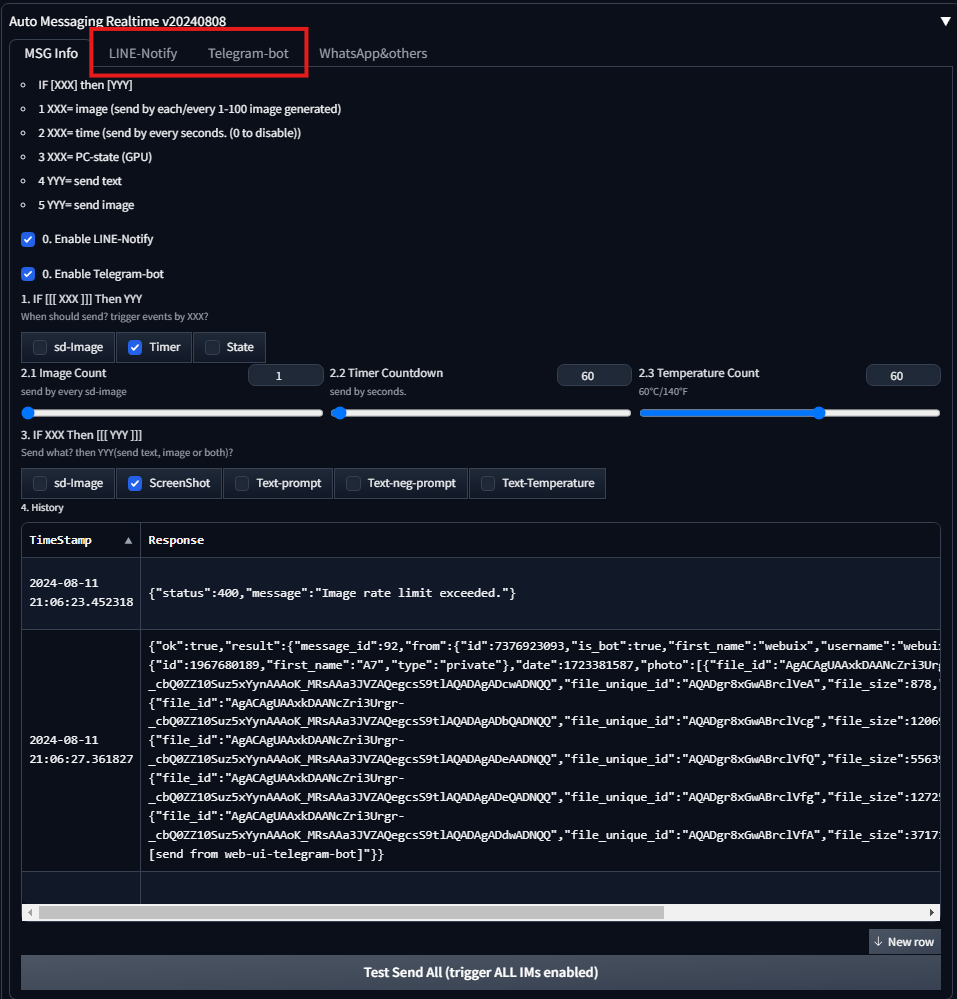
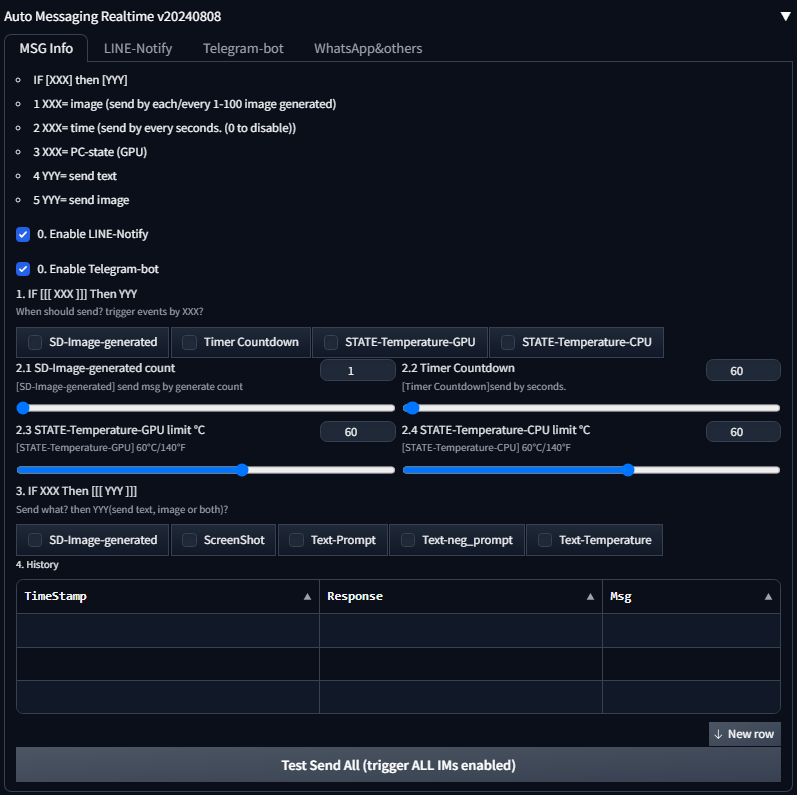
[update] using enum as list for checkbox

Changed region(s): [[0.0, 0.0, 1.0, 1.0], [0.9636, 0.0, 0.9937, 0.0302]]

diff --git a/scripts/auto_messaging_realtime.py b/scripts/auto_messaging_realtime.py
@@ -1,4 +1,6 @@
+import enum
 import os
+
 from threading import Timer
 import json
 import pyautogui
@@ -21,6 +23,41 @@ class RepeatingTimer(Timer):
             self.finished.wait(self.interval)
 
 
+class EnumSendContent(enum.Enum):
+    SDIMAGE = 'SD-Image-generated'
+    ScreenShot = 'ScreenShot'
+    TextPrompt = 'Text-Prompt'
+    Text_neg_prompt = 'Text-neg_prompt'
+    Text_Temperature = 'Text-Temperature'
+
+    @classmethod
+    def values(cls):
+        return [e.value for e in cls]
+
+
+class EnumTriggetType(enum.Enum):
+    SDIMAGE = 'SD-Image-generated'
+    TIMER = 'Timer Countdown'
+    STATE_TEMPERATURE_GPU = 'STATE-Temperature-GPU'
+    STATE_TEMPERATURE_CPU = 'STATE-Temperature-CPU'
+
+    @classmethod
+    def to_dict(cls):
+        return {e.name: e.value for e in cls}
+
+    @classmethod
+    def items(cls):
+        return [(e.name, e.value) for e in cls]
+
+    @classmethod
+    def keys(cls):
+        return [e.name for e in cls]
+
+    @classmethod
+    def values(cls):
+        return [e.value for e in cls]
+
+
 class AutoMessaging(scripts.Script):
     def __init__(self) -> None:
         super().__init__()
@@ -37,14 +74,30 @@ class AutoMessaging(scripts.Script):
 
     # bot_line_notify_trigger_by_temperature_label = "60°C/140°F"
 
-    def send_msg_all(self, setting__im_line_notify_enabled, setting__im_telegram_enabled,
-                     setting_trigger_type, setting_image_count, setting_time_count, setting_temperature,
-                     setting_send_content_with,
-                     im_line_notify_token, im_line_notify_msg_header,
-                     im_telegram_token_botid, im_telegram_token_chatid, im_telegram_msg_header):
+    def send_msg_all_from_processing(self, p, setting__im_line_notify_enabled, setting__im_telegram_enabled,
+                                     setting_trigger_type, setting_image_count, setting_time_count,
+                                     setting_temperature,
+                                     setting_send_content_with,
+                                     im_line_notify_token, im_line_notify_msg_header,
+                                     im_telegram_token_botid, im_telegram_token_chatid, im_telegram_msg_header):
+
+        im_line_notify_msg_header += ''.join(str(x) for x in p.all_prompts)
+        im_telegram_msg_header += ''.join(str(x) for x in p.all_prompts)
+
+        self.send_msg_all_lets_go(setting__im_line_notify_enabled, setting__im_telegram_enabled,
+                                  setting_trigger_type, setting_image_count, setting_time_count, setting_temperature,
+                                  setting_send_content_with,
+                                  im_line_notify_token, im_line_notify_msg_header,
+                                  im_telegram_token_botid, im_telegram_token_chatid, im_telegram_msg_header)
+
+    def send_msg_all_lets_go(self, setting__im_line_notify_enabled, setting__im_telegram_enabled,
+                             setting_trigger_type, setting_image_count, setting_time_count, setting_temperature,
+                             setting_send_content_with,
+                             im_line_notify_token, im_line_notify_msg_header,
+                             im_telegram_token_botid, im_telegram_token_chatid, im_telegram_msg_header):
         opened_files = []
 
-        if "ScreenShot" in setting_send_content_with:
+        if EnumSendContent.ScreenShot.value in setting_send_content_with:
             myscreenshot = pyautogui.screenshot()
             base_folder = os.path.dirname(__file__)
             image_path = os.path.join(base_folder, "..", "myScreenshot.png")
@@ -64,8 +117,8 @@ class AutoMessaging(scripts.Script):
                                                          im_telegram_token_chatid,
                                                          im_telegram_msg_header)
             log.warning(f"[][send_msg_all][result_telegram_bot]: {result_telegram_bot}")
-        if "Timer" in setting_trigger_type:
-            self.timer_couunt_threading = Timer(setting_time_count, self.send_msg_all,
+        if EnumTriggetType.TIMER.value in setting_trigger_type:
+            self.timer_couunt_threading = Timer(setting_time_count, self.send_msg_all_lets_go,
                                                 [setting__im_line_notify_enabled, setting__im_telegram_enabled,
                                                  setting_trigger_type, setting_image_count, setting_time_count,
                                                  setting_temperature, setting_send_content_with,
@@ -113,11 +166,12 @@ class AutoMessaging(scripts.Script):
 
     def send_msg_telegram(self, opened_files, im_telegram_token_botid, im_telegram_token_chatid,
                           im_telegram_msg_header):
-        log.warning(f"[][][send_msg_telegram]: {opened_files,im_telegram_token_botid, im_telegram_token_chatid,im_telegram_msg_header}")
+        log.warning(
+            f"[][][send_msg_telegram]: {opened_files, im_telegram_token_botid, im_telegram_token_chatid, im_telegram_msg_header}")
 
         assert type(im_telegram_msg_header) == str, "must be str"
         # msg_all = bot_telegram_msg_header + str(bot_line_notify_trigger_by) + str(bot_line_notify_send_with)
-        headers = {'Content-Type': 'application/json',"cache-control": "no-cache"}
+        headers = {'Content-Type': 'application/json', "cache-control": "no-cache"}
 
         # API ref: https://core.telegram.org/bots/api#sendphoto
         if opened_files.__len__() > 0:
@@ -175,24 +229,31 @@ class AutoMessaging(scripts.Script):
                     setting__im_line_notify_enabled = gr.Checkbox(label="0. Enable LINE-Notify", value=True)
                     setting__im_telegram_enabled = gr.Checkbox(label="0. Enable Telegram-bot", value=True)
 
-                    setting_trigger_type = gr.CheckboxGroup(["sd-Image", "Timer", "State"],
-                                                            label="1. IF [[[ XXX ]]] Then YYY",
-                                                            info="When should send? trigger events by XXX?")
+                    setting_trigger_type = gr.CheckboxGroup(
+                        EnumTriggetType.values(),
+                        label="1. IF [[[ XXX ]]] Then YYY",
+                        info="When should send? trigger events by XXX?")
                     with gr.Row():
-                        setting_image_count = gr.Slider(1, 100, value=1, label="2.1 Image Count",
+                        setting_image_count = gr.Slider(1, 100, value=1,
+                                                        label="2.1 " + EnumTriggetType.SDIMAGE.value + " count",
                                                         step=1,
-                                                        info="send by every sd-image")
+                                                        info="[" + EnumTriggetType.SDIMAGE.value + "] send msg by generate count")
                         setting_time_count = gr.Slider(0, 6000, value=60,
-                                                       label="2.2  Timer Countdown",
+                                                       label="2.2  " + EnumTriggetType.TIMER.value,
                                                        step=1,
-                                                       info="send by seconds. ")
-                        setting_temperature = gr.Slider(0, 100, value=60,
-                                                        label="2.3 Temperature Count",
-                                                        step=1,
-                                                        info="60°C/140°F")
+                                                       info="[" + EnumTriggetType.TIMER.value + "]send by seconds. ")
+                    with gr.Row():
+                        setting_temperature_gpu = gr.Slider(0, 100, value=60,
+                                                            label="2.3 " + EnumTriggetType.STATE_TEMPERATURE_GPU.value + " limit °C",
+                                                            step=1,
+                                                            info="[" + EnumTriggetType.STATE_TEMPERATURE_GPU.value + "] 60°C/140°F")
+                        setting_temperature_cpu = gr.Slider(0, 100, value=60,
+                                                            label="2.4 " + EnumTriggetType.STATE_TEMPERATURE_CPU.value + " limit °C",
+                                                            step=1,
+                                                            info="[" + EnumTriggetType.STATE_TEMPERATURE_CPU.value + "] 60°C/140°F")
 
                     setting_send_content_with = gr.CheckboxGroup(
-                        ["sd-Image", "ScreenShot", "Text-prompt", "Text-neg-prompt", "Text-Temperature"],
+                        EnumSendContent.values(),
                         label="3. IF XXX Then [[[ YYY ]]]",
                         info="Send what? then YYY(send text, image or both)?")
                     setting_history = gr.Dataframe(
@@ -270,38 +331,38 @@ class AutoMessaging(scripts.Script):
         im_telegram_getupdates.click(self.tel_getupdate,
                                      inputs=[im_telegram_token_botid],
                                      outputs=[im_telegram_getupdates_result])
-        setting_temperature.change(fn=self.update_temperature_label,
-                                   inputs=setting_temperature
-                                   )
-        setting_send_button.click(self.send_msg_all,
+        setting_temperature_gpu.change(fn=self.update_temperature_label,
+                                       inputs=setting_temperature_gpu
+                                       )
+        setting_send_button.click(self.send_msg_all_lets_go,
                                   inputs=[setting__im_line_notify_enabled, setting__im_telegram_enabled,
                                           setting_trigger_type, setting_image_count, setting_time_count,
-                                          setting_temperature, setting_send_content_with,
+                                          setting_temperature_gpu, setting_send_content_with,
                                           im_line_notify_token, im_line_notify_msg_header,
                                           im_telegram_token_botid, im_telegram_token_chatid, im_telegram_msg_header],
                                   outputs=[setting_history])
-        im_line_notify_send_button.click(self.send_msg_all,
+        im_line_notify_send_button.click(self.send_msg_all_lets_go,
                                          inputs=[setting__im_line_notify_enabled, setting__im_telegram_enabled,
                                                  setting_trigger_type, setting_image_count, setting_time_count,
-                                                 setting_temperature, setting_send_content_with,
+                                                 setting_temperature_gpu, setting_send_content_with,
                                                  im_line_notify_token, im_line_notify_msg_header,
                                                  im_telegram_token_botid, im_telegram_token_chatid,
                                                  im_telegram_msg_header],
                                          outputs=[im_line_notify_history])
-        im_telegram_send_button.click(self.send_msg_all,
+        im_telegram_send_button.click(self.send_msg_all_lets_go,
                                       inputs=[setting__im_line_notify_enabled, setting__im_telegram_enabled,
                                               setting_trigger_type, setting_image_count, setting_time_count,
-                                              setting_temperature, setting_send_content_with,
+                                              setting_temperature_gpu, setting_send_content_with,
                                               im_line_notify_token, im_line_notify_msg_header,
                                               im_telegram_token_botid, im_telegram_token_chatid,
                                               im_telegram_msg_header],
                                       outputs=[im_telegram_notify_history])
         return [setting__im_line_notify_enabled, setting__im_telegram_enabled,
-                                              setting_trigger_type, setting_image_count, setting_time_count,
-                                              setting_temperature, setting_send_content_with,
-                                              im_line_notify_token, im_line_notify_msg_header,
-                                              im_telegram_token_botid, im_telegram_token_chatid,
-                                              im_telegram_msg_header]
+                setting_trigger_type, setting_image_count, setting_time_count,
+                setting_temperature_gpu, setting_send_content_with,
+                im_line_notify_token, im_line_notify_msg_header,
+                im_telegram_token_botid, im_telegram_token_chatid,
+                im_telegram_msg_header]
 
     def after_component(self, component, **kwargs):
         if kwargs.get("elem_id") == "txt2img_prompt":
@@ -316,13 +377,24 @@ class AutoMessaging(scripts.Script):
                 im_line_notify_token, im_line_notify_msg_header,
                 im_telegram_token_botid, im_telegram_token_chatid,
                 im_telegram_msg_header):
+        log.warning(f"[1][process][setting_trigger_type]: {setting_trigger_type}")
 
-        if setting__im_line_notify_enabled:
-            log.warning(f"[][process][bot_line_notify_enabled]: {setting__im_line_notify_enabled}")
+        if setting__im_line_notify_enabled or setting__im_telegram_enabled:
+            self.send_msg_all_from_processing(p, setting__im_line_notify_enabled, setting__im_telegram_enabled,
+                                              setting_trigger_type, setting_image_count, setting_time_count,
+                                              setting_temperature,
+                                              setting_send_content_with,
+                                              im_line_notify_token, im_line_notify_msg_header,
+                                              im_telegram_token_botid, im_telegram_token_chatid,
+                                              im_telegram_msg_header)
+
+        # if setting__im_line_notify_enabled:
+        #     if EnumTriggetType.SDIMAGE.value in setting_trigger_type:
+        #         log.warning(f"[2][process][bot_line_notify_enabled]: {setting__im_line_notify_enabled}")
         #     log.warning(f"[][][bot_line_notify_enabled]: {bot_line_notify_token}")
         #     self.send_msg_linenotify(bot_line_notify_token, bot_line_notify_trigger_by,
         #                              bot_line_notify_trigger_by_time_count,
         #                              bot_line_notify_send_with, bot_line_notify_msg_header)
         #
-        if setting__im_telegram_enabled:
-            log.warning(f"[][process][bot_telegram_enabled]: {setting__im_telegram_enabled}")
+        # if setting__im_telegram_enabled:
+        #     log.warning(f"[3][process][bot_telegram_enabled]: {setting__im_telegram_enabled}")

diff --git a/README.md b/README.md
@@ -42,22 +42,24 @@
     <td><img width="200px" src="https://core.telegram.org/file/811140934/1/tbDSLHSaijc/fdcc7b6d5fb3354adf"></td>
  </tr>
 <tr>
-    <td colspan="2"><b style="font-size:30px">3. Monitor SD-web-ui on Phone</b></td>
+    <td colspan="2"><b style="font-size:30px">3. Monitor SD-web-ui on Phone (prompt, result, temperature)</b></td>
  </tr>
 <tr >
-    <td colspan="2"><img width="100%" src="images/r1.png"></td>
+    <td colspan="1"><img width="100%" src="images/r5.png"></td>
+    <td colspan="1"><img width="100%" src="images/r1.png"></td>
  </tr>
 <tr>
-    <td colspan="2"><b style="font-size:30px">4. Monitor w/GPU on Phone</b></td>
+    <td colspan="2"><b style="font-size:30px">4. Monitor whole ScreenShot on Phone</b></td>
  </tr>
 <tr >
     <td colspan="2"><img width="100%" src="images/r2.png"></td>
  </tr>
 <tr>
-    <td colspan="2"><b style="font-size:30px">5. Auto mMessaging UI</b></td>
+    <td colspan="2"><b style="font-size:30px">5. Auto Messaging Realtime UI</b></td>
  </tr>
 <tr >
     <td colspan="2"><img width="100%" src="images/r3.png"></td>
+    
  </tr>
 </table>
 
